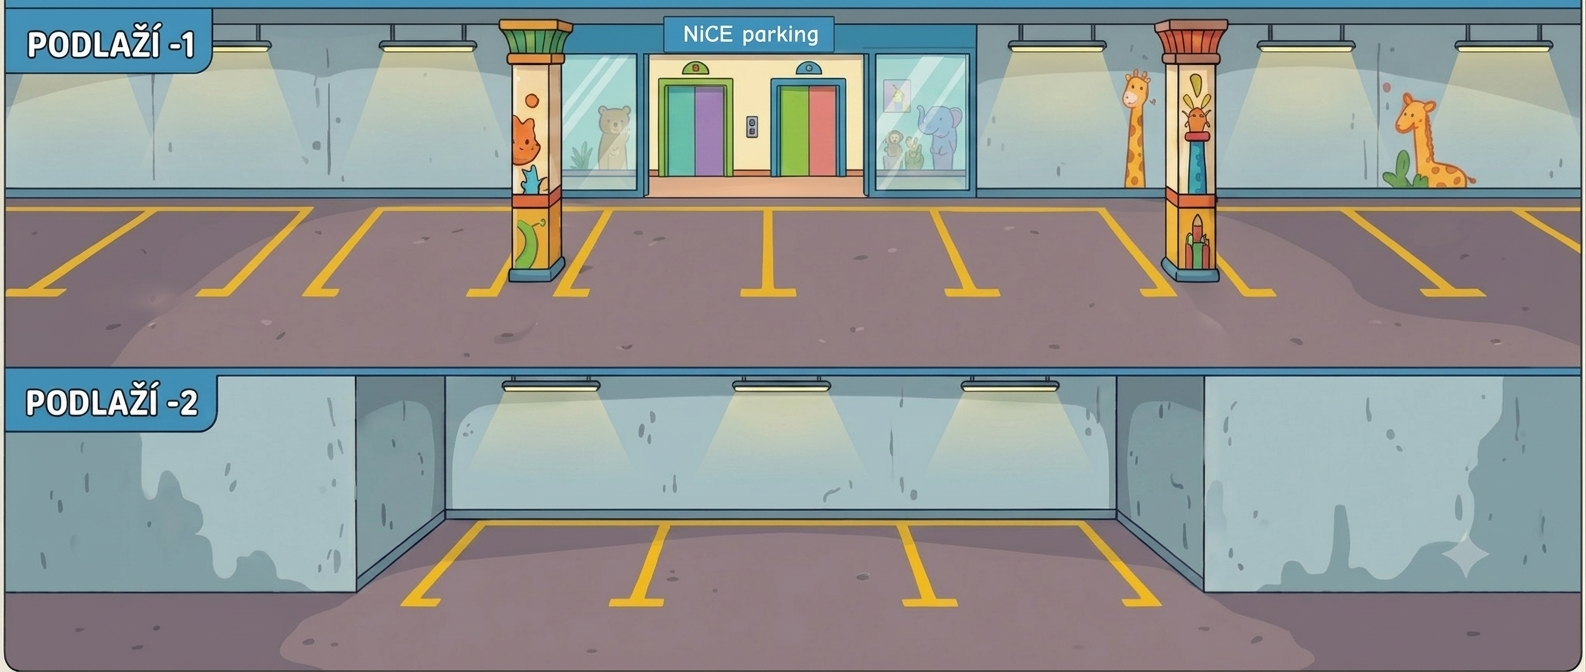
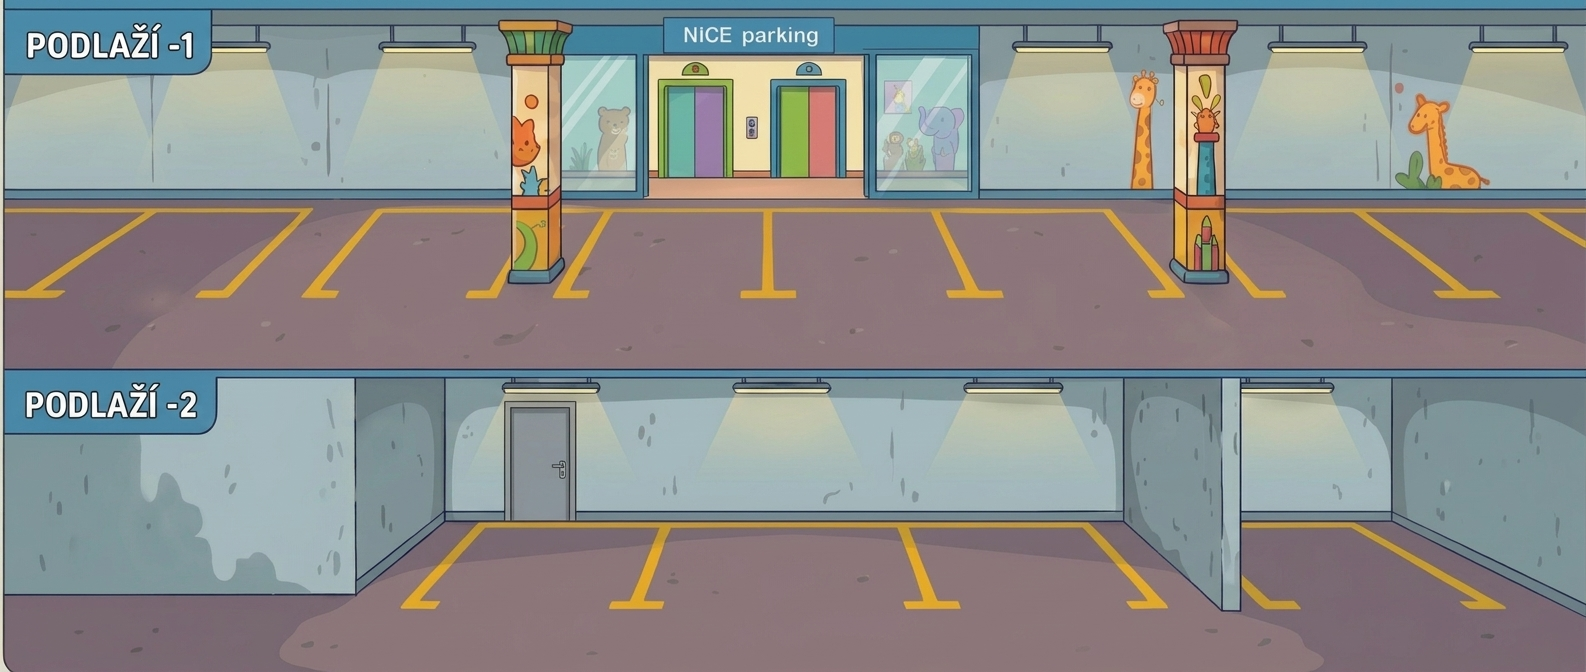
Fixes #30: Graphical version has -2 floor spots reversed (#33)
* Graphical version has -2 floor spots reversed
Fixes #30: Fix bay layout index swapping

* Update parking scene assets and adjust bay layout configuration

* Fix ground height values in bay layout configuration

---------

diff --git a/src/components/parking-scene/scene-data.ts b/src/components/parking-scene/scene-data.ts
@@ -1,7 +1,7 @@
 /**
  * Pure data + helpers for the parking garage scene.
  *
- * The scene is a fixed cartoon illustration of the NiCE garage (public/parking-bg.png)
+ * The scene is a fixed cartoon illustration of the NiCE garage
  * with two floors. Each bay has a fixed position in the art, so the geometry lives in
  * a static map keyed by bay number. Spot names in the database are "<floor>/<bay>"
  * (e.g. "-1/070", "-1/063 ♿", "-2/086"); we parse the bay number to look up its box.
@@ -142,10 +142,10 @@ export const BAY_LAYOUT: Record<number, BayLayout> = {
     flip: true,
     label: { x: 1503.0, y: 146, capH: CAP_H_UPPER, fill: "#71bab0" },
   },
-  86: {
+  89: {
     cx: 34.8,
     w: 10.4,
-    ground: 90.5,
+    ground: 89.5,
     side: true,
     flip: true,
     label: { x: 549.9, y: 464, capH: CAP_H_LOWER, fill: "#f3be2f" },
@@ -153,18 +153,26 @@ export const BAY_LAYOUT: Record<number, BayLayout> = {
   88: {
     cx: 49.6,
     w: 10.4,
-    ground: 90.8,
+    ground: 89.5,
     side: false,
     flip: false,
     label: { x: 779.5, y: 469, capH: CAP_H_LOWER, fill: "#8dba4f" },
   },
-  89: {
+  87: {
     cx: 64.2,
     w: 10.4,
-    ground: 90.5,
+    ground: 89.5,
     side: true,
     flip: false,
     label: { x: 1008.5, y: 464, capH: CAP_H_LOWER, fill: "#e77335" },
+  },
+  86: {
+    cx: 85,
+    w: 10.4,
+    ground: 89.5,
+    side: true,
+    flip: false,
+    label: { x: 1308.5, y: 464, capH: CAP_H_LOWER, fill: "#e77335" },
   },
 };
 
@@ -184,7 +192,7 @@ export interface BayLabel {
 /**
  * The bay numbers painted on the garage's back wall.
  *
- * The original background art (parking-bg.png) had them baked in; the current art
+ * The original background art had them baked in; the current art
  * (parking-bg.jpg) is the same illustration with them removed, so the app draws
  * them instead. Position, size and colour were measured off the old art by diffing
  * the two images — they are irregular because the illustration is in perspective,

diff --git a/src/global.css b/src/global.css
@@ -163,7 +163,7 @@ a:hover {
 
 .main-content {
   flex: 1;
-  padding: 1.5rem 1rem 3rem;
+  padding: 1.5rem 1rem 1rem;
 }
 
 .container {
